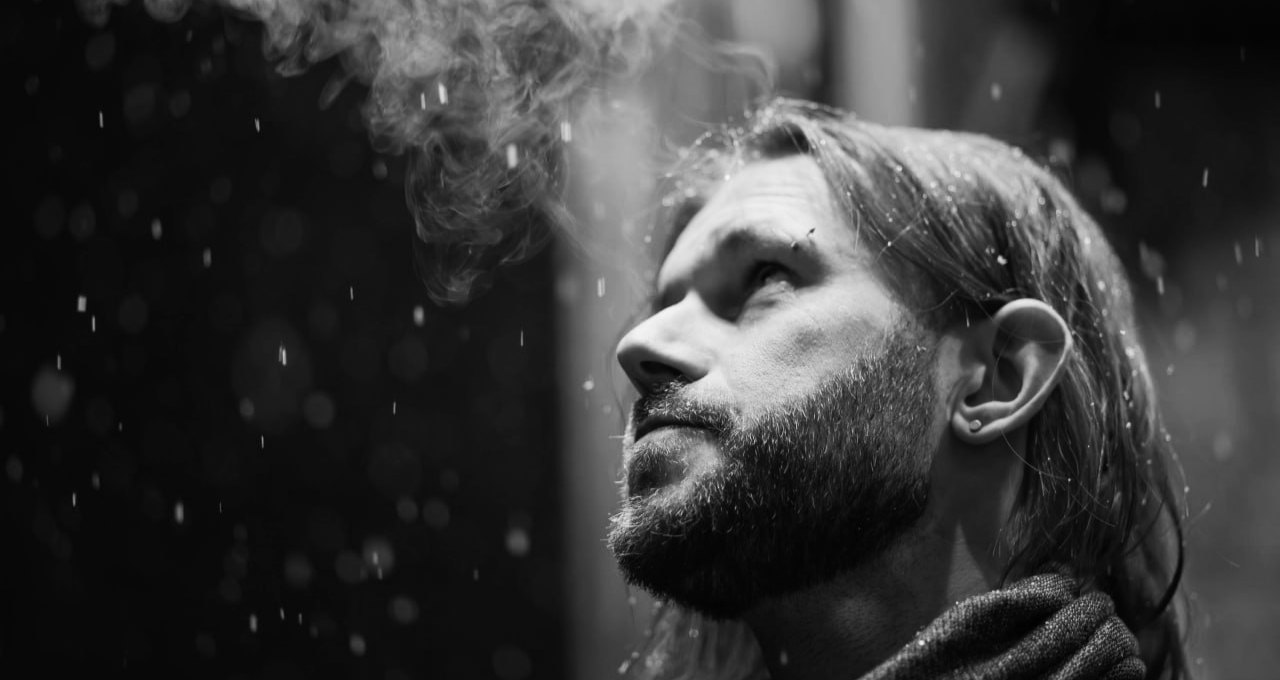
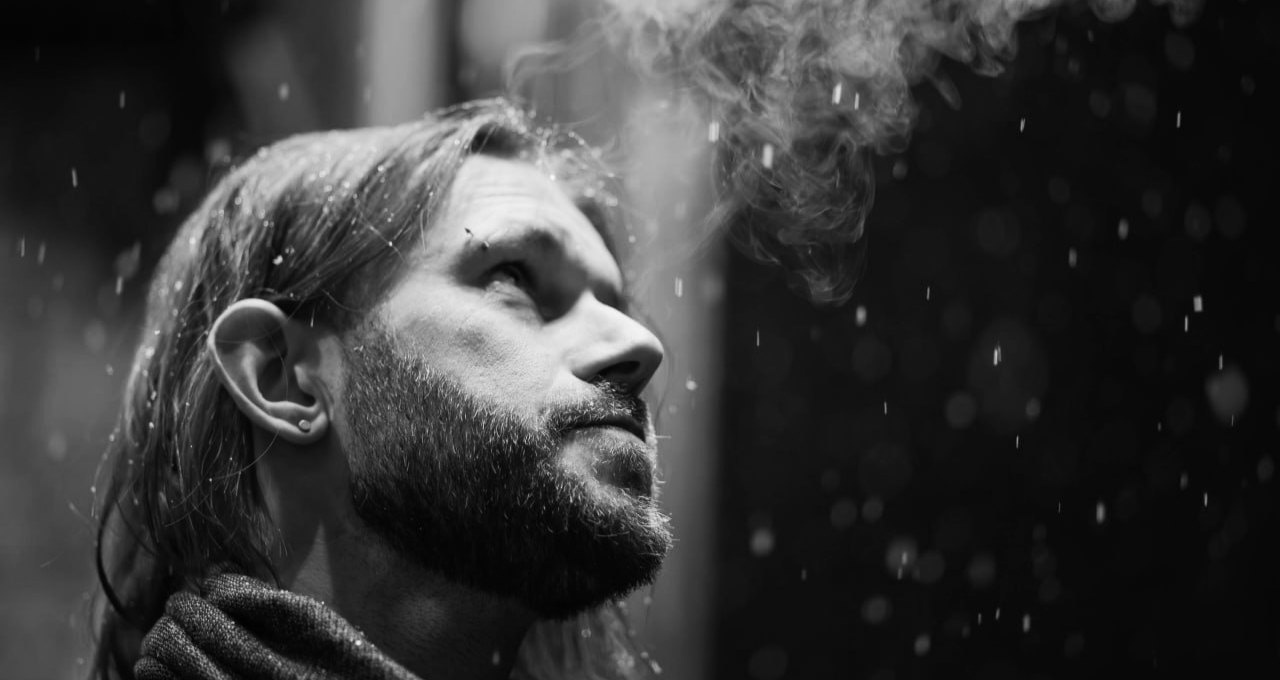
Фото в «О себе» отзеркалено: взгляд направо

diff --git a/index.html b/index.html
@@ -125,7 +125,7 @@ a{color:inherit}
 .about .x .thin path{fill:none;stroke:var(--paper);stroke-width:1px;vector-effect:non-scaling-stroke;stroke-linejoin:miter}
 .about .cols{display:grid;grid-template-columns:4fr 5fr 3fr;gap:clamp(18px,4vw,64px);align-items:start}
 .about .ph{border-radius:50%;overflow:hidden;aspect-ratio:1;max-width:420px}
-.about .ph img{width:100%;height:100%;object-fit:cover;object-position:58% 40%;filter:grayscale(1) contrast(1.08)}
+.about .ph img{width:100%;height:100%;object-fit:cover;object-position:42% 40%;filter:grayscale(1) contrast(1.08)}
 .about p{margin:0 0 1em;font-size:clamp(17px,1.35vw,20px);max-width:34em}
 .about p:first-child{font-weight:500;font-size:clamp(20px,1.9vw,28px);line-height:1.25}
 .edu{margin:0;padding:0;list-style:none}
